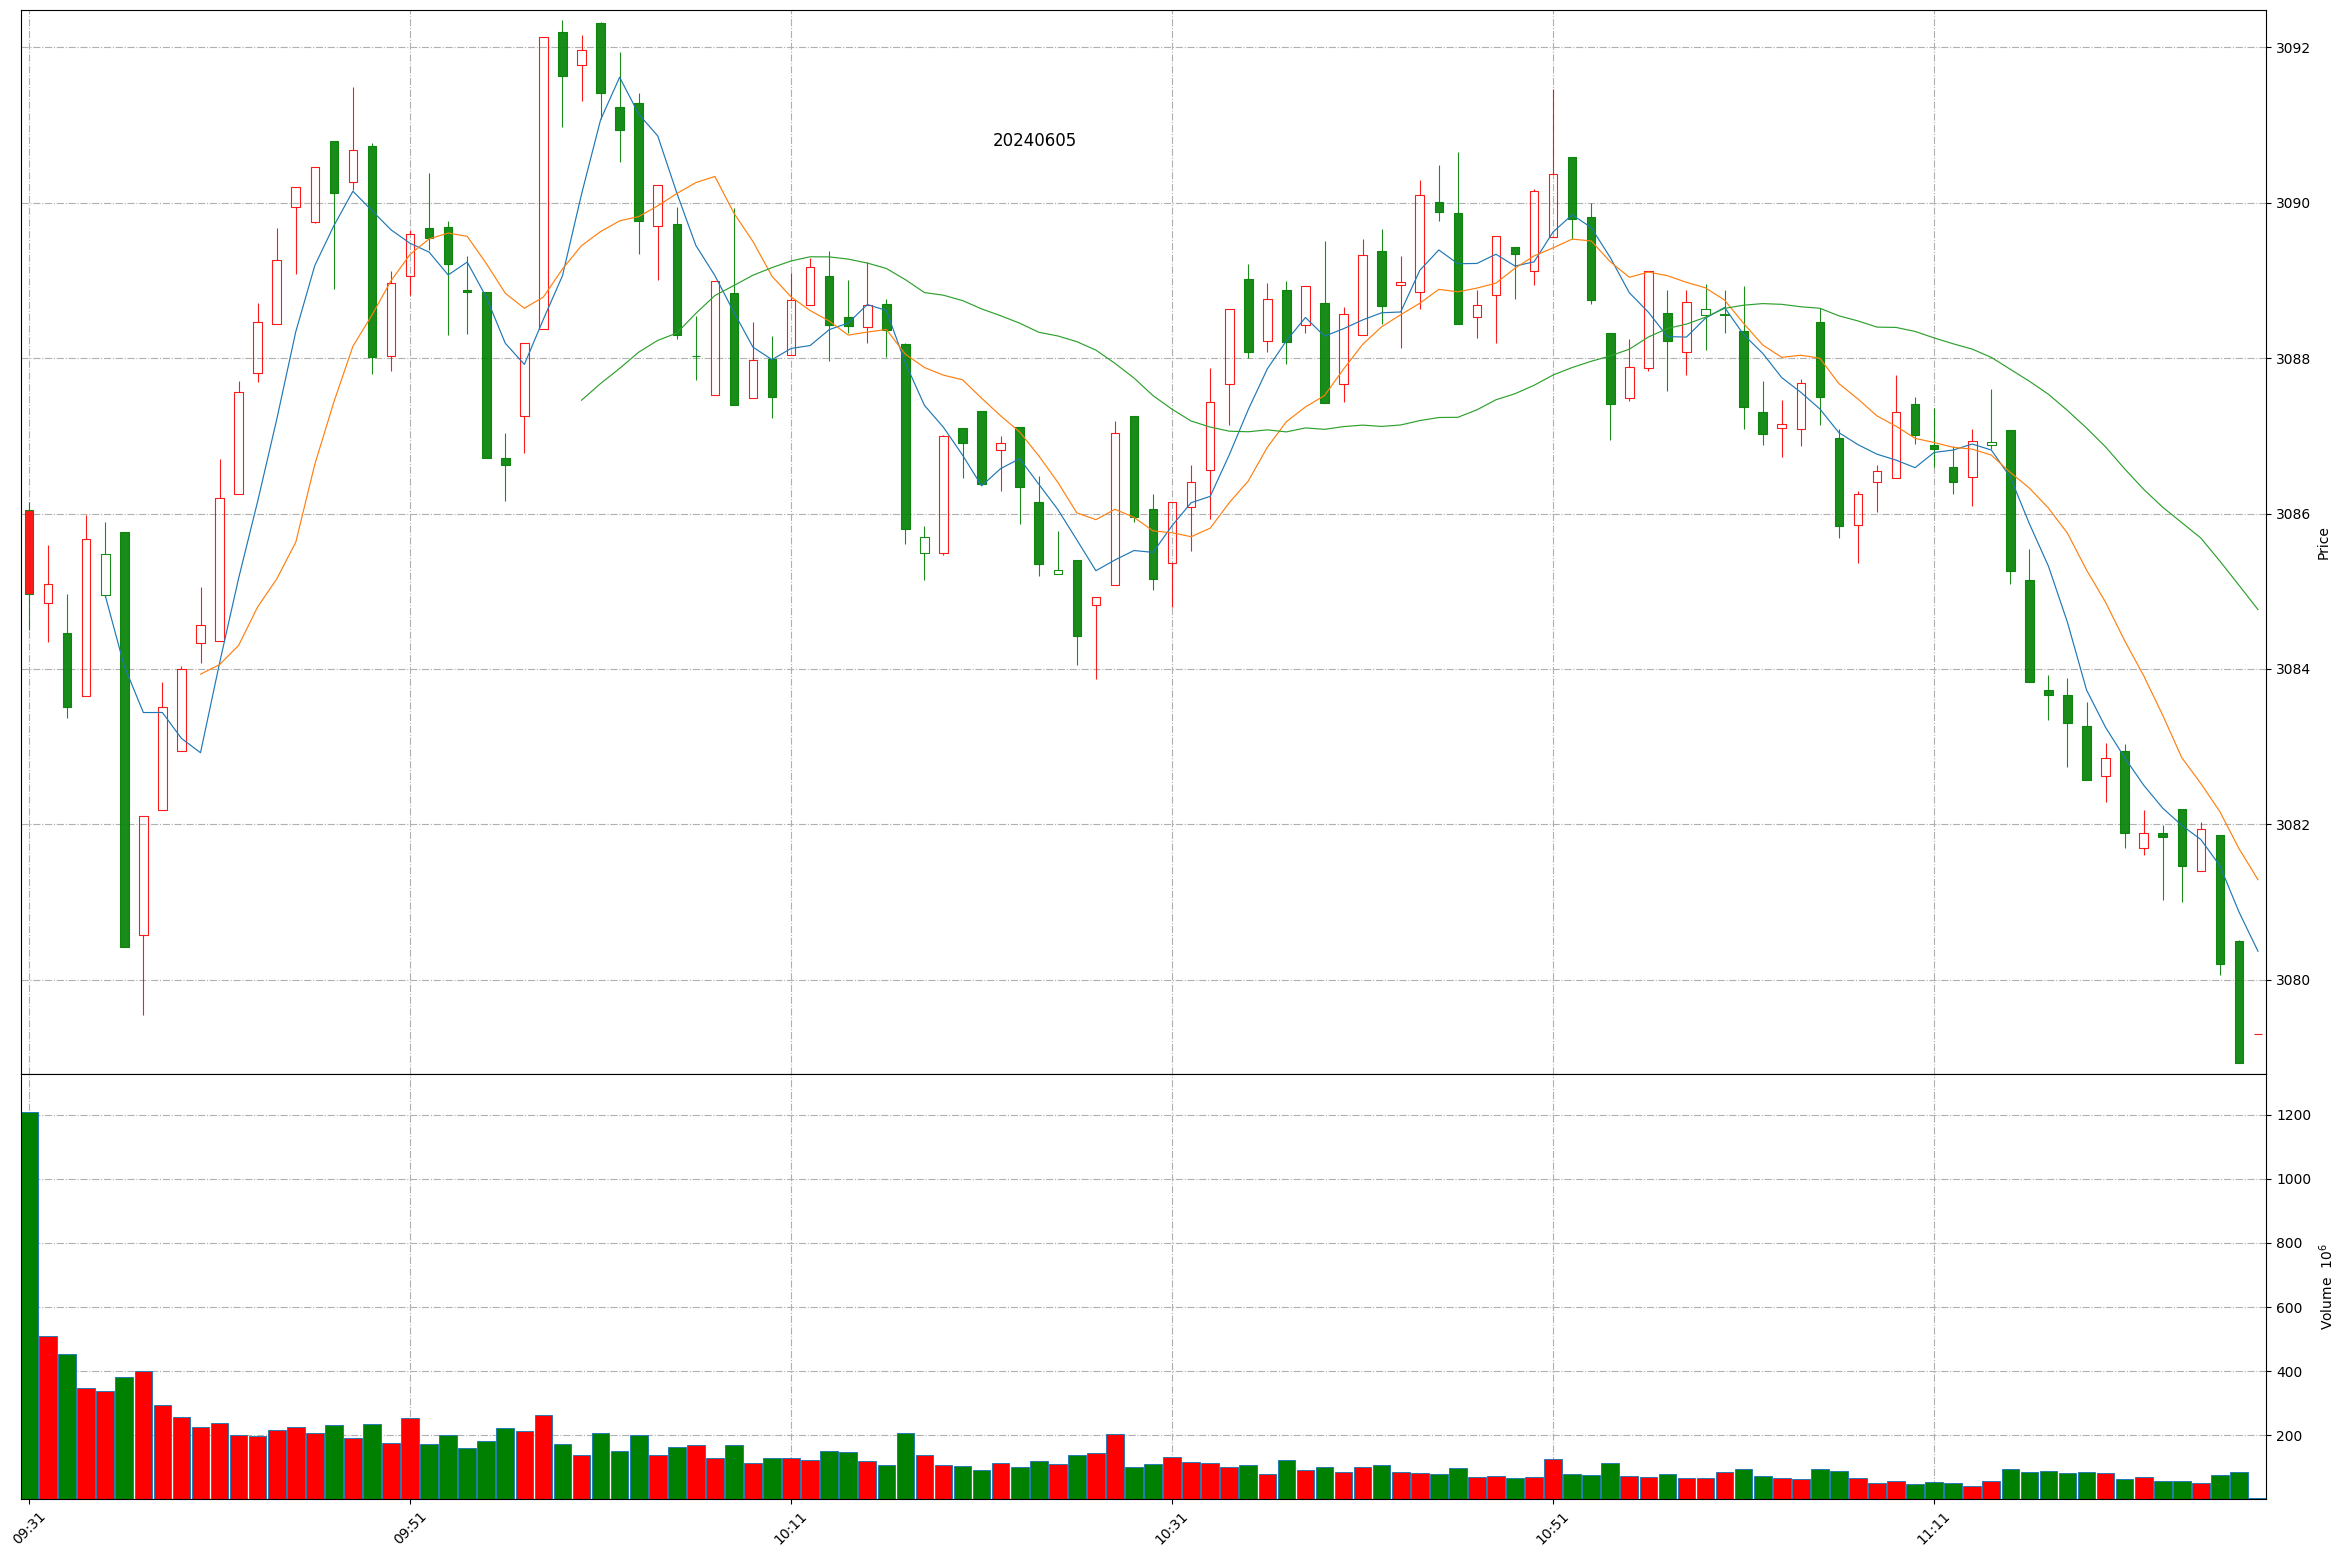
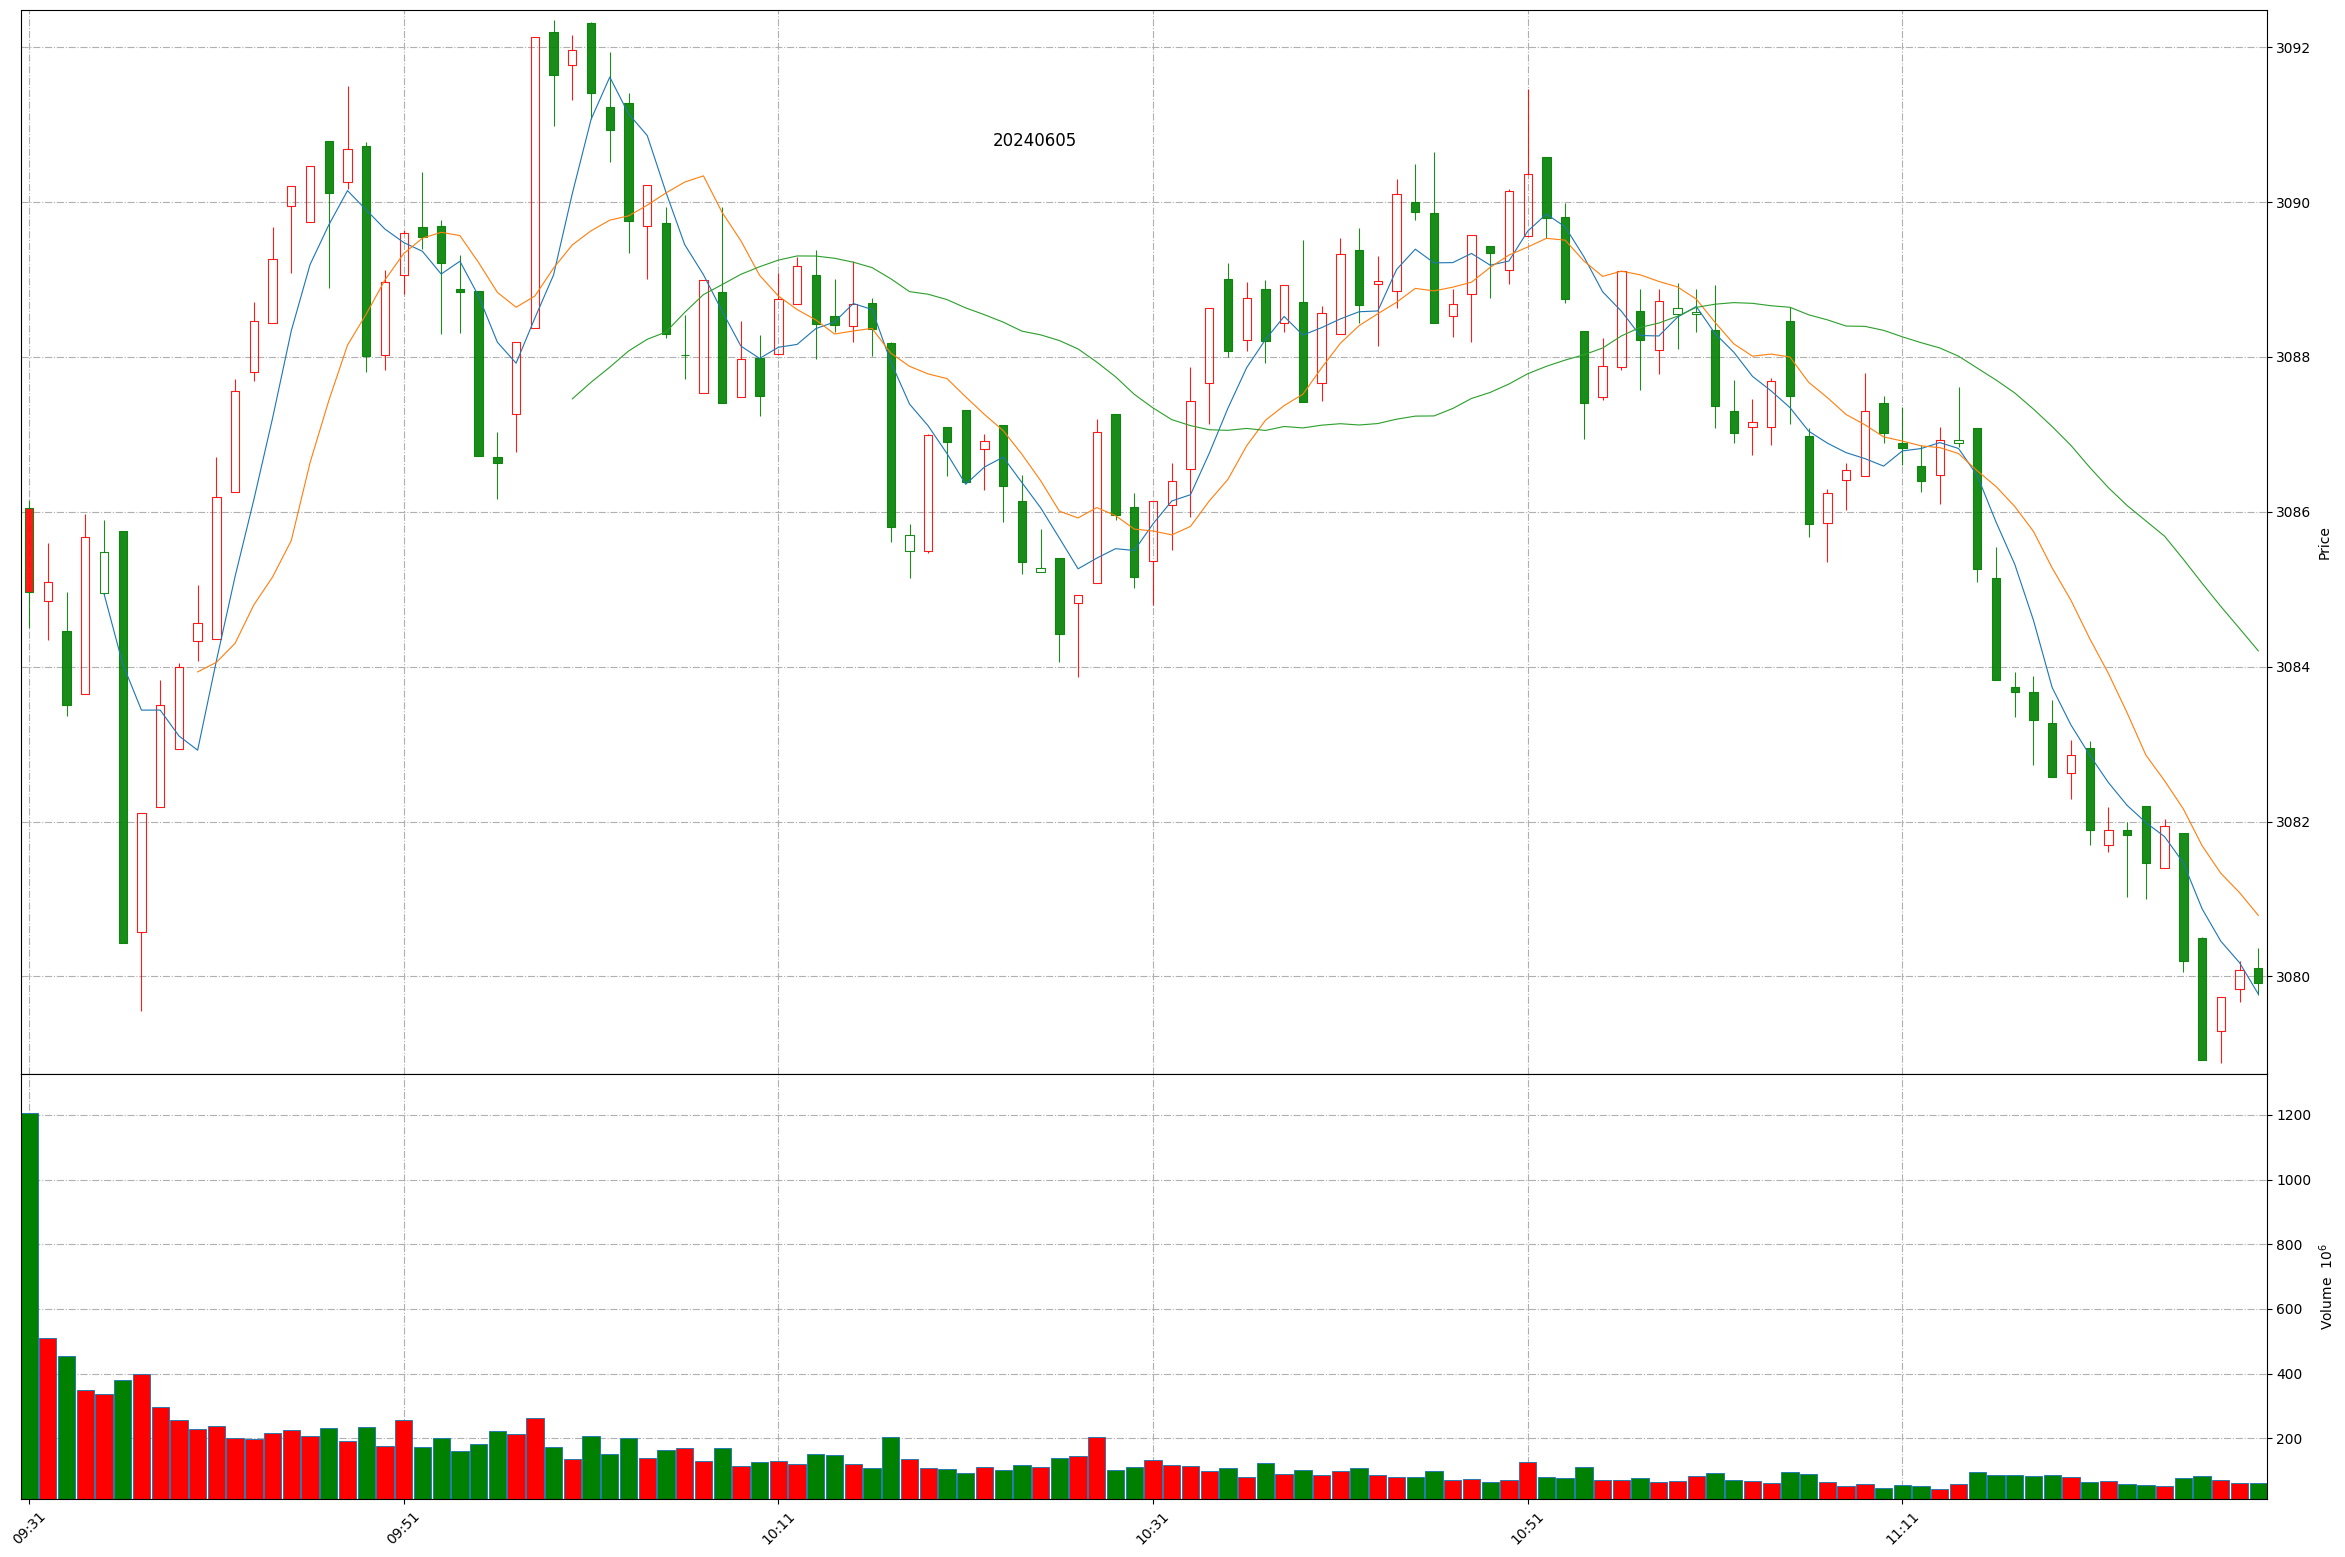
Github action update at 2024-06-05 11:33:16.

diff --git a/README.md b/README.md
@@ -1,11 +1,11 @@
 
 # Daily-A-share-market-quotes 每日 A 股指数（5min 更新）- 20240605
 
-### 上证指数 20240605 11:27
+### 上证指数 20240605 11:33
 ![](./fig/2024/6/20240605-sh000001.png)
 
-### 深证成指 20240605 11:27
+### 深证成指 20240605 11:33
 ![](./fig/2024/6/20240605-sz399001.png)
 
-### 北证50 20240605 11:27
+### 北证50 20240605 11:33
 ![](./fig/2024/6/20240605-bj899050.png)
